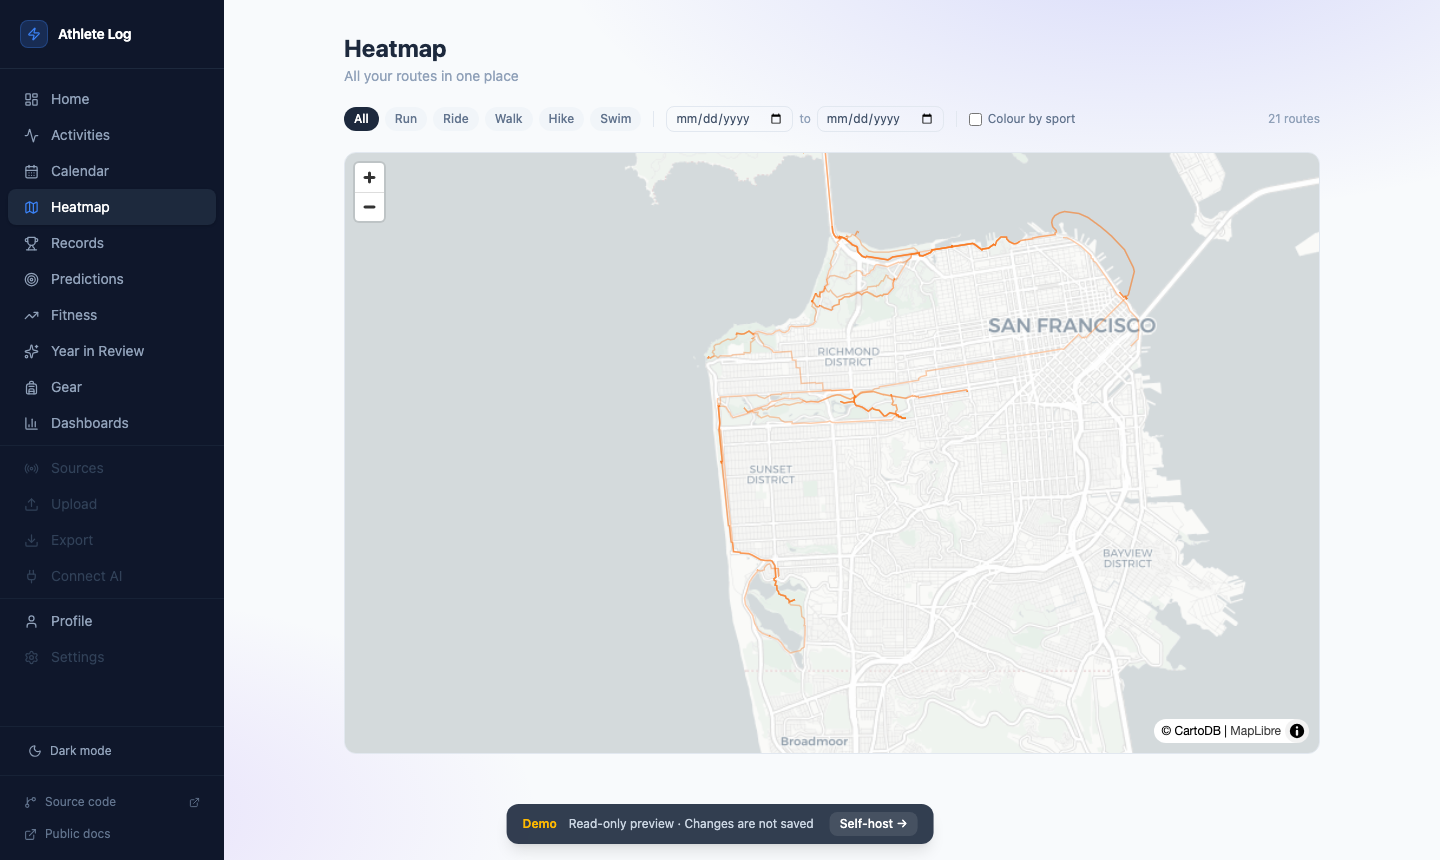
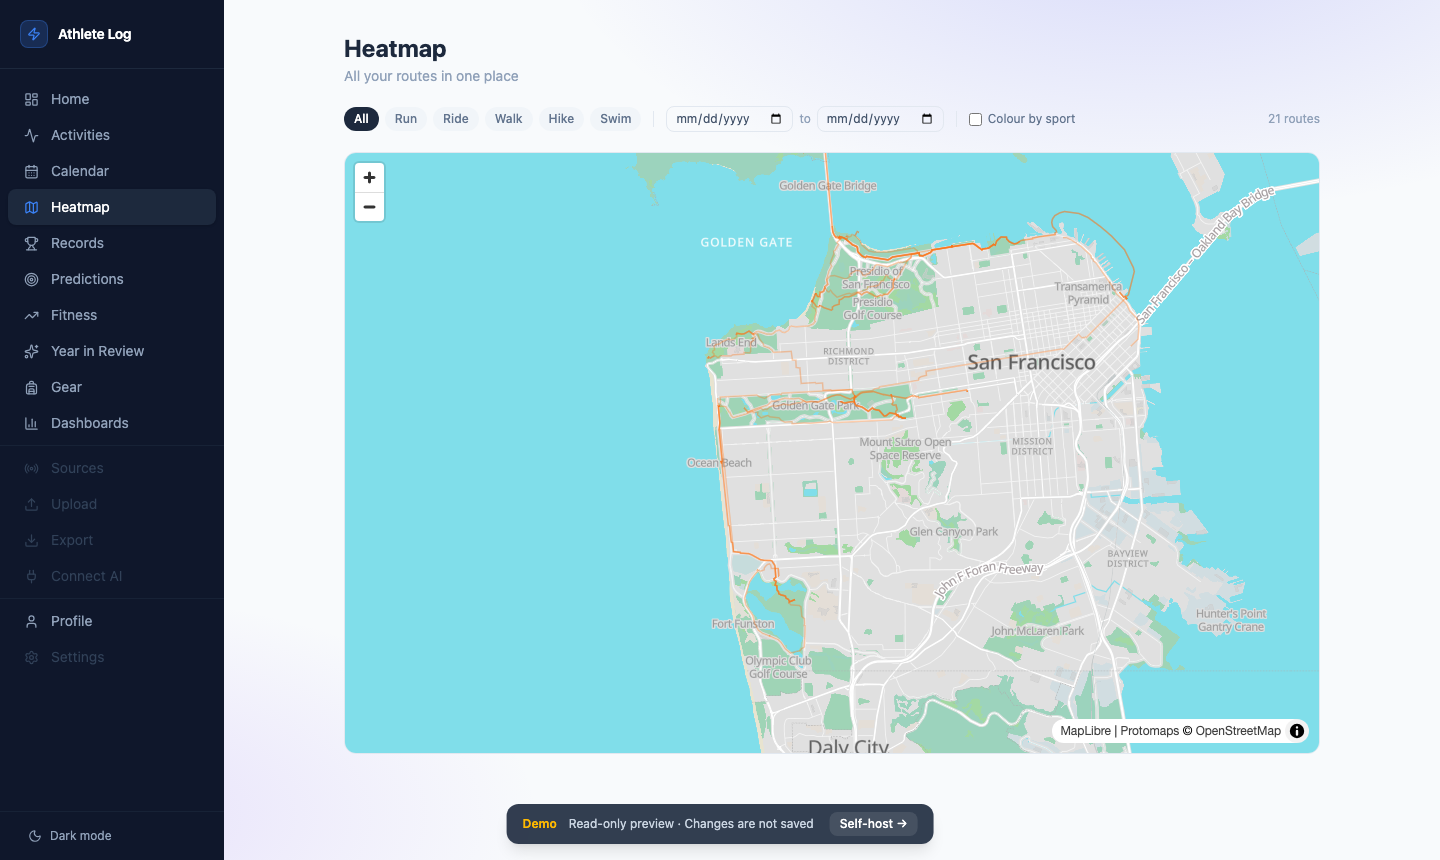
Polish public repo: trim sidebar, drop trademarks, fix brand leftovers
- Sidebar: remove Source code / Public docs bottom links (sidebar was tight)
- Remove TRADEMARKS.md and README trademark section (no trademarks held)
- Replace remaining 'Athlete Vault' brand leftovers: share-card text,
  UI strings (owner/log/password), and vault.example.com example domains
- Regenerate all screenshots with Protomaps vector maps (colorful)
- README: hero + thumbnail-row layout instead of a flat 2x2 grid

diff --git a/frontend/src/components/Sidebar.jsx b/frontend/src/components/Sidebar.jsx
@@ -21,8 +21,6 @@ import {
   Sun,
   Moon,
   Plug,
-  GitBranch,
-  ExternalLink,
 } from "lucide-react";
 
 const BASE_GROUPS = [
@@ -122,32 +120,6 @@ export default function Sidebar({ publicMode, isAuthenticated, onLoginClick, onL
             : <><Moon size={14} /><span>Dark mode</span></>
           }
         </button>
-      </div>
-
-      <div className="px-4 py-3 border-t border-slate-800/60">
-        <div className="space-y-1">
-          <a
-            href="https://github.com/nowakkuba99/athlete-log"
-            target="_blank"
-            rel="noopener noreferrer"
-            className="flex items-center gap-2 px-2 py-1.5 text-xs text-slate-500 hover:text-slate-300 hover:bg-slate-800/60 rounded transition-colors"
-            title="Source code"
-          >
-            <GitBranch size={13} />
-            Source code
-            <ExternalLink size={11} className="ml-auto" />
-          </a>
-          <a
-            href="https://athlete-log.app/docs"
-            target="_blank"
-            rel="noopener noreferrer"
-            className="flex items-center gap-2 px-2 py-1.5 text-xs text-slate-500 hover:text-slate-300 hover:bg-slate-800/60 rounded transition-colors"
-            title="Public documentation"
-          >
-            <ExternalLink size={13} />
-            Public docs
-          </a>
-        </div>
       </div>
 
       {/* Admin section — only shown in public mode */}

diff --git a/frontend/src/pages/Onboarding.jsx b/frontend/src/pages/Onboarding.jsx
@@ -171,7 +171,7 @@ function StepReady({ onFinish }) {
         <CheckCircle2 size={28} style={{ color: "var(--accent)" }} />
       </div>
       <div className="space-y-2">
-        <h2 className="text-2xl font-bold text-slate-800 dark:text-slate-100">Your vault is ready</h2>
+        <h2 className="text-2xl font-bold text-slate-800 dark:text-slate-100">You're all set</h2>
         <p className="text-slate-500 dark:text-slate-400 leading-relaxed">
           Explore your activities, check your records, and start uncovering insights from your training history.
         </p>

diff --git a/frontend/src/pages/ActivityDetail.jsx b/frontend/src/pages/ActivityDetail.jsx
@@ -2150,7 +2150,7 @@ export default function ActivityDetail() {
           {dangerOpen && (
             <div className="flex items-center justify-between gap-4 px-5 pb-4 pt-1 border-t border-red-100">
               <p className="text-sm text-slate-500 dark:text-slate-400">
-                Permanently removes this activity from your vault. This cannot be undone.
+                Permanently removes this activity from your log. This cannot be undone.
               </p>
               {deleteConfirm ? (
                 <div className="flex gap-2 shrink-0">

diff --git a/frontend/src/App.jsx b/frontend/src/App.jsx
@@ -61,7 +61,7 @@ function AdminGate({ publicMode, isAuthenticated, onLoginClick, children }) {
         </div>
         <p className="font-medium text-slate-700 dark:text-slate-200">Owner access required</p>
         <p className="text-sm text-slate-400 dark:text-slate-500 max-w-xs">
-          This section is restricted to the vault owner.
+          This section is restricted to the app owner.
         </p>
         <button
           onClick={onLoginClick}

diff --git a/frontend/src/pages/Login.jsx b/frontend/src/pages/Login.jsx
@@ -50,7 +50,7 @@ export default function Login({ onSuccess, modal = false }) {
           <>
             <h1 className="text-lg font-semibold text-slate-800 dark:text-slate-100 mb-1">Sign in</h1>
             <p className="text-sm text-slate-400 dark:text-slate-500 mb-6">
-              Password protected — enter your vault password.
+              Password protected — enter your password.
             </p>
           </>
         )}

diff --git a/internal/storage/config_test.go b/internal/storage/config_test.go
@@ -39,7 +39,7 @@ func TestConfigFromEnvAllowsExplicitBackend(t *testing.T) {
 		case "APP_DB":
 			return "sqlite"
 		case "SQLITE_PATH":
-			return "/custom/vault.db"
+			return "/custom/athlete-log.db"
 		case "DATABASE_URL":
 			return "postgres://ignored"
 		default:
@@ -52,7 +52,7 @@ func TestConfigFromEnvAllowsExplicitBackend(t *testing.T) {
 	if cfg.Backend != BackendSQLite {
 		t.Fatalf("backend = %q, want %q", cfg.Backend, BackendSQLite)
 	}
-	if cfg.SQLitePath != "/custom/vault.db" {
+	if cfg.SQLitePath != "/custom/athlete-log.db" {
 		t.Fatalf("sqlite path = %q", cfg.SQLitePath)
 	}
 }

diff --git a/internal/api/server.go b/internal/api/server.go
@@ -147,7 +147,7 @@ func (s *APIServer) stopFolderWatcher(connID string) {
 	}
 }
 
-// WithBaseURL sets the externally-reachable origin (e.g. "https://vault.example.com")
+// WithBaseURL sets the externally-reachable origin (e.g. "https://athlete-log.example.com")
 // used when constructing OAuth callback URLs. Must not have a trailing slash.
 func (s *APIServer) WithBaseURL(u string) *APIServer {
 	s.baseURL = u

diff --git a/internal/api/card.go b/internal/api/card.go
@@ -241,7 +241,7 @@ func GenerateShareCard(act cardActivity, samples [][2]float64, theme string, imp
 	))
 	sb.WriteString(`</g>`)
 	sb.WriteString(fmt.Sprintf(
-		`<text x="%d" y="%d" font-size="13" font-weight="700" fill="%s" letter-spacing="0.5">ATHLETE VAULT</text>`,
+		`<text x="%d" y="%d" font-size="13" font-weight="700" fill="%s" letter-spacing="0.5">ATHLETE LOG</text>`,
 		lx+36, ly+20, tc.muted,
 	))
 

diff --git a/docs/security.md b/docs/security.md
@@ -59,7 +59,7 @@ If you're exposing Athlete Log over the internet, put it behind a reverse proxy 
 === "Caddy"
 
     ```caddy
-    vault.example.com {
+    athlete-log.example.com {
         reverse_proxy localhost:8080
     }
     ```
@@ -71,9 +71,9 @@ If you're exposing Athlete Log over the internet, put it behind a reverse proxy 
     ```nginx
     server {
         listen 443 ssl;
-        server_name vault.example.com;
-        ssl_certificate     /etc/letsencrypt/live/vault.example.com/fullchain.pem;
-        ssl_certificate_key /etc/letsencrypt/live/vault.example.com/privkey.pem;
+        server_name athlete-log.example.com;
+        ssl_certificate     /etc/letsencrypt/live/athlete-log.example.com/fullchain.pem;
+        ssl_certificate_key /etc/letsencrypt/live/athlete-log.example.com/privkey.pem;
 
         location / {
             proxy_pass http://localhost:8080;
@@ -83,7 +83,7 @@ If you're exposing Athlete Log over the internet, put it behind a reverse proxy 
     }
     ```
 
-Set `BASE_URL=https://vault.example.com` in `docker-compose.yml` — this is required for Strava OAuth redirects to work correctly when not on localhost.
+Set `BASE_URL=https://athlete-log.example.com` in `docker-compose.yml` — this is required for Strava OAuth redirects to work correctly when not on localhost.
 
 ---
 

diff --git a/README.md b/README.md
@@ -17,10 +17,19 @@ No subscription. No cloud lock-in. No data mining.
 
 ---
 
-| | |
-|:---:|:---:|
-| ![Activities](docs/assets/screenshots/activities.png) | ![Fitness PMC](docs/assets/screenshots/fitness.png) |
-| ![Activity detail](docs/assets/screenshots/activity-detail.png) | ![Heatmap](docs/assets/screenshots/heatmap.png) |
+<div align="center">
+
+<img src="docs/assets/screenshots/activity-detail.png" alt="Activity detail — route, splits, and charts" width="88%"/>
+
+<br/><br/>
+
+<img src="docs/assets/screenshots/activities.png" alt="Activities" width="32%"/>
+&nbsp;
+<img src="docs/assets/screenshots/heatmap.png" alt="GPS heatmap" width="32%"/>
+&nbsp;
+<img src="docs/assets/screenshots/fitness.png" alt="Fitness — Performance Management Chart" width="32%"/>
+
+</div>
 
 ---
 
@@ -81,8 +90,6 @@ Go 1.23 · SQLite by default · PostgreSQL optional · React 18 · Tailwind CSS 
 
 ---
 
-## License and trademark
+## License
 
 [AGPLv3 or later](LICENSE) — built for athletes who believe their data belongs to them.
-
-See [TRADEMARKS.md](TRADEMARKS.md) for branding and naming rules around forks, hosted services, and commercial distributions.

diff --git a/docs/setup.md b/docs/setup.md
@@ -31,7 +31,7 @@ The only values needed before first launch are in `docker-compose.yml`:
 | `POSTGRES_PASSWORD` | `athlete` | Postgres password — **change this before any network exposure** |
 | `DATABASE_URL` | Compose-managed Postgres URL | Existing Postgres connection string. Set this when bringing your own Postgres database |
 | `SQLITE_PATH` | `/data/athlete-log.db` in Docker | SQLite database path |
-| `BASE_URL` | _(unset)_ | Public origin, e.g. `https://vault.example.com` — required for Strava OAuth on non-localhost |
+| `BASE_URL` | _(unset)_ | Public origin, e.g. `https://athlete-log.example.com` — required for Strava OAuth on non-localhost |
 | `APP_PORT` | `8080` | Host port the app listens on |
 | `DATA_DIR` | `./data` | Host path for SQLite data, optional Postgres volume, and activity blobs |
 | `APP_PUBLIC_MODE` | _(unset)_ | Set to `true` to allow anyone to view data while restricting writes to authenticated owner only |
